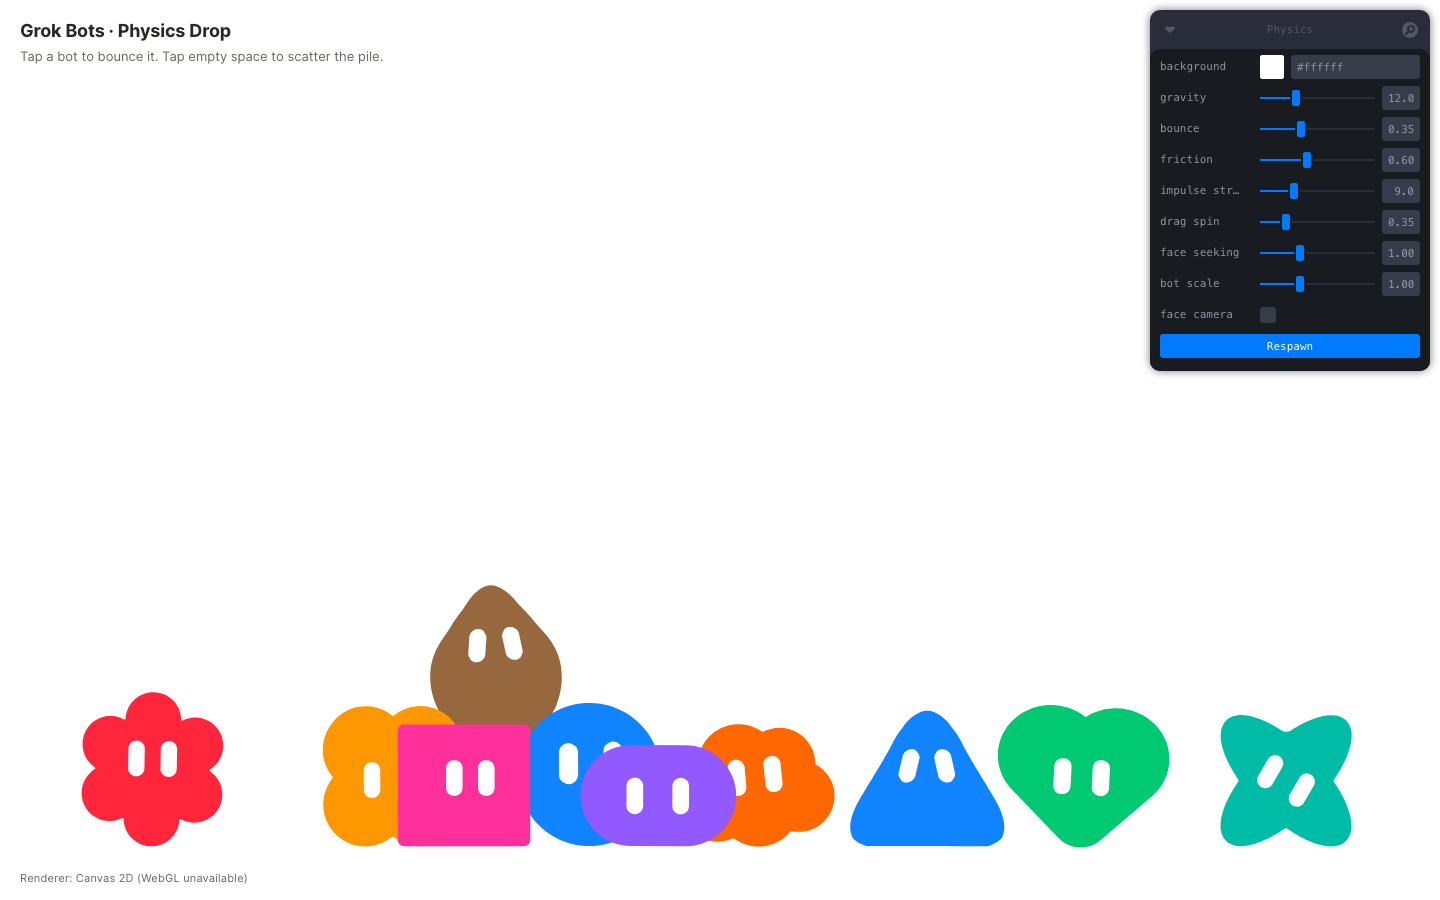
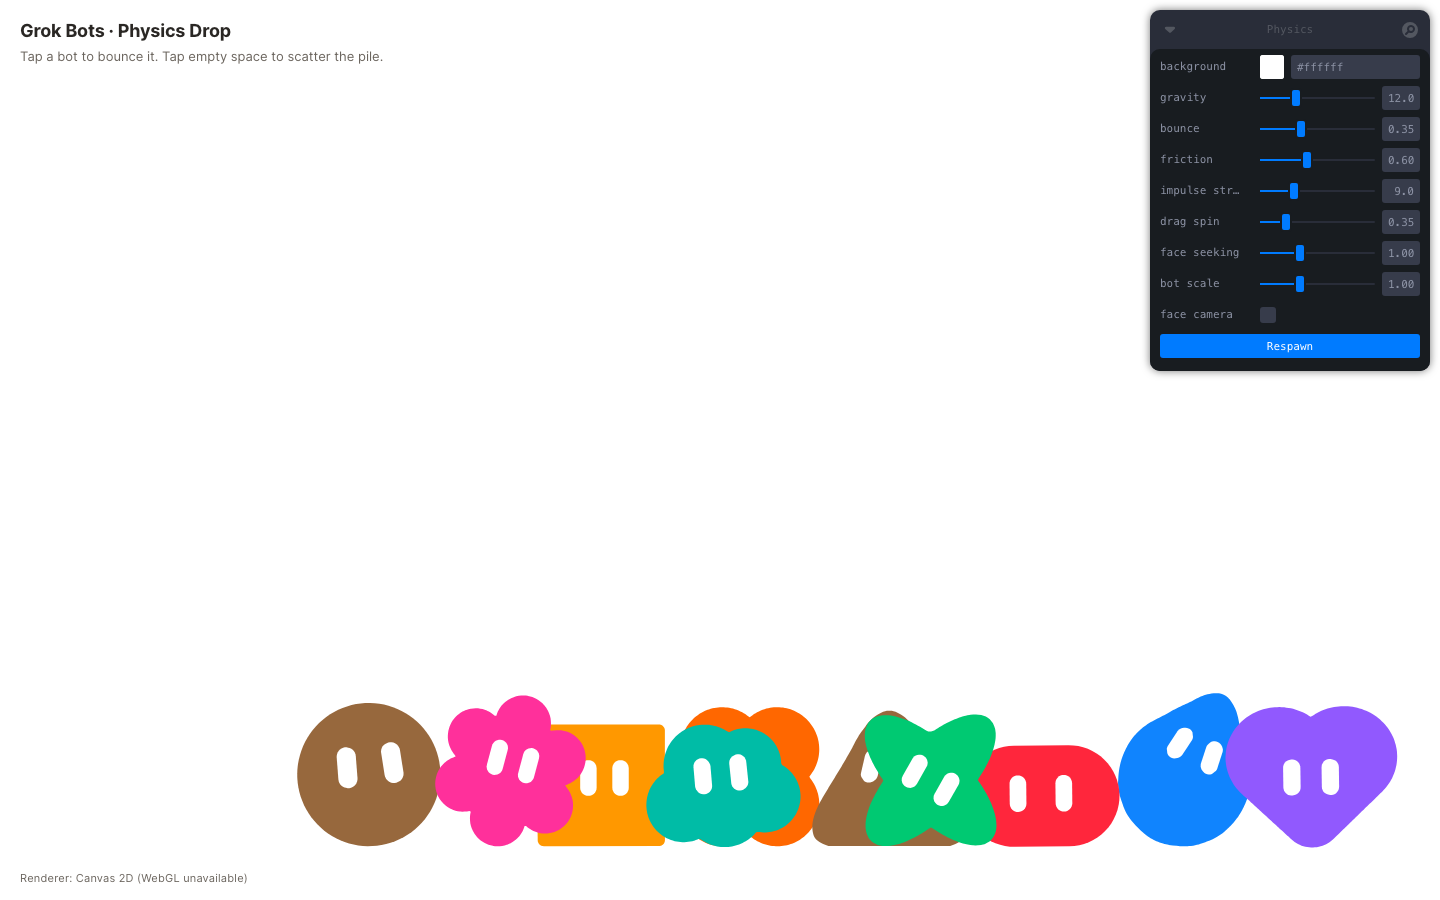
Canvas 2D: fix wedge-shaped holes — silhouette from net boundary of front triangles (balanced, always closes) instead of 2-per-edge adjacency; weld seams/poles and drop degenerate triangles; compareFrame ground-truth hook, randomize hook, triangle fallback

Changed region(s): [[0.1875, 0.6533, 0.9688, 0.9644], [0.0312, 0.7467, 0.1562, 0.9644]]

diff --git a/src/canvas2d.ts b/src/canvas2d.ts
@@ -10,9 +10,9 @@ import * as THREE from "three";
  * Drawing model, matched to what the bots need (flat unlit fills, no lights):
  * - Orthographic/perspective projection through the camera matrices.
  * - Bodies are painter-sorted by view depth, far to near. Each body is one
- *   `Path2D` made of its front-facing triangles, filled once with the nonzero
- *   rule, so the union is seamless (no hairlines between triangles) and the
- *   silhouette is exactly the mesh's.
+ *   `Path2D` of its silhouette loops — the net boundary of its front-facing
+ *   triangles — filled once with the nonzero rule, so the fill is exactly the
+ *   union of the front faces with no seams and only a few hundred segments.
  * - Eye meshes (children tagged with `userData.eyeNormal`) are drawn right
  *   after their body, only while that normal faces the camera; being flush
  *   inlays, that is when — and only when — they would be visible.
@@ -50,6 +50,14 @@ export class Canvas2DRenderer {
 
   /** Per-phase timings of the last frame (ms), for profiling. */
   phases = { project: 0, path: 0, fill: 0, triangles: 0 };
+  /**
+   * "silhouette" traces only the outline loops (fast); "triangles" emits every
+   * front-facing triangle (slow, but a straightforward ground truth used by
+   * `compareFrame`).
+   */
+  fillMode: "silhouette" | "triangles" = "silhouette";
+  private lastScene: THREE.Scene | null = null;
+  private lastCamera: THREE.Camera | null = null;
 
   setPixelRatio(dpr: number) {
     this.dpr = dpr;
@@ -85,12 +93,53 @@ export class Canvas2DRenderer {
   }
 
   render(scene: THREE.Scene, camera: THREE.Camera) {
+    this.lastScene = scene;
+    this.lastCamera = camera;
+    this.renderTo(this.ctx, this.dpr, scene, camera);
+  }
+
+  /**
+   * Test hook: draw the last frame twice into offscreen canvases — silhouette
+   * loops vs. every front-facing triangle — and count pixels that differ by
+   * more than `threshold` in any channel. Anything beyond antialiasing noise
+   * means a silhouette loop was wrong (a hole or a chord across a body).
+   */
+  compareFrame(threshold = 100): { differing: number; total: number } {
+    if (!this.lastScene || !this.lastCamera) return { differing: 0, total: 0 };
+    const w = Math.max(1, Math.floor(this.width)), h = Math.max(1, Math.floor(this.height));
+    const make = () => {
+      const c = document.createElement("canvas");
+      c.width = w;
+      c.height = h;
+      return c.getContext("2d")!;
+    };
+    const a = make(), b = make();
+    const mode = this.fillMode;
+    this.fillMode = "silhouette";
+    this.renderTo(a, 1, this.lastScene, this.lastCamera);
+    this.fillMode = "triangles";
+    this.renderTo(b, 1, this.lastScene, this.lastCamera);
+    this.fillMode = mode;
+    const pa = a.getImageData(0, 0, w, h).data, pb = b.getImageData(0, 0, w, h).data;
+    let differing = 0;
+    for (let i = 0; i < pa.length; i += 4) {
+      if (
+        Math.abs(pa[i] - pb[i]) > threshold ||
+        Math.abs(pa[i + 1] - pb[i + 1]) > threshold ||
+        Math.abs(pa[i + 2] - pb[i + 2]) > threshold
+      )
+        differing++;
+    }
+    return { differing, total: w * h };
+  }
+
+  private renderTo(ctx: CanvasRenderingContext2D, dpr: number, scene: THREE.Scene, camera: THREE.Camera) {
     const t0 = performance.now();
     this.phases.project = this.phases.path = this.phases.fill = this.phases.triangles = 0;
     if (scene.matrixWorldAutoUpdate) scene.updateMatrixWorld();
     if (camera.parent === null && camera.matrixWorldAutoUpdate) camera.updateMatrixWorld();
 
-    const { ctx, dpr, width, height } = this;
+    const { width, height } = this;
     ctx.setTransform(dpr, 0, 0, dpr, 0, 0);
     const bg = scene.background;
     if (bg instanceof THREE.Color) {
@@ -119,7 +168,7 @@ export class Canvas2DRenderer {
     this.bodies.sort((a, b) => a.depth - b.depth);
 
     for (const { mesh } of this.bodies) {
-      const bodyPath = this.fillMesh(mesh, colorOf(mesh.material));
+      const bodyPath = this.fillMesh(ctx, mesh, colorOf(mesh.material));
       if (!bodyPath) continue;
       for (const child of mesh.children) {
         const eye = child as THREE.Mesh;
@@ -136,7 +185,7 @@ export class Canvas2DRenderer {
         // silhouette stands in for the depth test at grazing angles.
         ctx.save();
         ctx.clip(bodyPath, "nonzero");
-        this.fillMesh(eye, colorOf(eye.material));
+        this.fillMesh(ctx, eye, colorOf(eye.material));
         ctx.restore();
       }
     }
@@ -149,13 +198,14 @@ export class Canvas2DRenderer {
   /**
    * Fill the projection of a mesh's front-facing triangles as one path. Rather
    * than emitting every triangle (each Path2D call costs ~1 µs, so 25k
-   * triangles took >100 ms a frame), only the silhouette is emitted: edges
-   * where a front-facing triangle meets a back-facing one, oriented by the
-   * front triangle's winding and chained into loops. With that orientation
-   * the nonzero winding number at any pixel equals the number of front-facing
-   * layers over it, so the fill is exactly the union of the front faces.
+   * triangles took >100 ms a frame), only the boundary of the front-facing set
+   * is emitted, chained into loops. An earlier version derived it from a
+   * two-triangles-per-edge adjacency; that broke on seams, poles and
+   * non-manifold marching-cubes edges, leaving open chains that `closePath`
+   * shut with a straight chord — a visible wedge cut out of a body. The net
+   * edge sum below is balanced by construction, so loops always close.
    */
-  private fillMesh(mesh: THREE.Mesh, color: string): Path2D | null {
+  private fillMesh(ctx: CanvasRenderingContext2D, mesh: THREE.Mesh, color: string): Path2D | null {
     const geometry = mesh.geometry;
     const position = geometry.attributes.position as THREE.BufferAttribute | undefined;
     if (!position) return null;
@@ -182,7 +232,7 @@ export class Canvas2DRenderer {
 
     // Front/back per triangle. Screen y points down, so a counter-clockwise
     // (front-facing) triangle in NDC has negative signed area here.
-    const { tris, triCount, edgeA, edgeB, edgeL, edgeR } = adj;
+    const { tris, triCount } = adj;
     const front = adj.front;
     for (let t = 0, i = 0; t < triCount; t++, i += 3) {
       const a = tris[i] * 2, b = tris[i + 1] * 2, c = tris[i + 2] * 2;
@@ -190,57 +240,109 @@ export class Canvas2DRenderer {
       front[t] = (out[b] - ax) * (out[c + 1] - ay) - (out[c] - ax) * (out[b + 1] - ay) < 0 ? 1 : 0;
     }
 
-    // Silhouette edges, directed so the front-facing side is consistent.
+    // Net boundary of the front-facing set: every front triangle contributes
+    // its three directed edges; an edge walked both ways (two front
+    // neighbours) cancels. Being a sum of closed triangle boundaries, the
+    // result has as many outgoing as incoming edges at every vertex whatever
+    // the mesh topology (seams, poles, non-manifold marching-cubes output), so
+    // the chains below always close, and its nonzero winding number equals
+    // the number of front layers over a pixel — exactly the union.
+    const { triEdge, triSign, edgeA, edgeB, net } = adj;
+    net.fill(0);
+    for (let t = 0, i = 0; t < triCount; t++, i += 3) {
+      if (!front[t]) continue;
+      net[triEdge[i]] += triSign[i];
+      net[triEdge[i + 1]] += triSign[i + 1];
+      net[triEdge[i + 2]] += triSign[i + 2];
+    }
     const outgoing = this.outgoing;
     outgoing.clear();
     let edges = 0;
-    for (let k = 0; k < edgeA.length; k++) {
-      const fl = front[edgeL[k]];
-      const fr = edgeR[k] >= 0 ? front[edgeR[k]] : 0;
-      if (fl === fr) continue;
-      const from = fl ? edgeA[k] : edgeB[k];
-      const to = fl ? edgeB[k] : edgeA[k];
+    for (let k = 0; k < net.length; k++) {
+      const n = net[k];
+      if (n === 0) continue;
+      const from = n > 0 ? edgeA[k] : edgeB[k];
+      const to = n > 0 ? edgeB[k] : edgeA[k];
       const list = outgoing.get(from);
-      if (list) list.push(to);
-      else outgoing.set(from, [to]);
-      edges++;
+      const copies = Math.abs(n);
+      if (list) for (let c = 0; c < copies; c++) list.push(to);
+      else outgoing.set(from, Array(copies).fill(to));
+      edges += copies;
     }
     const tq = performance.now();
     this.phases.project += tq - tp;
     this.phases.triangles += edges;
     if (!edges) return null;
 
+    if (this.fillMode === "triangles") return this.fillTriangles(ctx, adj, out, color);
+
     // Chain directed edges into closed loops. Every vertex has as many
     // outgoing as incoming silhouette edges, so any unused outgoing edge
-    // continues the walk; a loop closes when it returns to its start.
+    // continues the walk and a walk can only get stuck back at its start.
     const path = new Path2D();
+    let open = false;
     for (const [start, firstList] of outgoing) {
       while (firstList.length) {
         let v = start;
         path.moveTo(out[v * 2], out[v * 2 + 1]);
+        let closed = false;
         for (let guard = 0; guard <= edges; guard++) {
           const list = outgoing.get(v);
           if (!list || !list.length) break;
           v = list.pop()!;
-          if (v === start) break;
+          if (v === start) {
+            closed = true;
+            break;
+          }
           path.lineTo(out[v * 2], out[v * 2 + 1]);
         }
         path.closePath();
+        if (!closed) open = true;
       }
+    }
+    if (open) {
+      // Cannot happen with balanced edges; if it ever does, correctness over
+      // speed: fill every front triangle for this mesh instead.
+      this.unclosedLoops++;
+      return this.fillTriangles(ctx, adj, out, color);
     }
     const tr = performance.now();
     this.phases.path += tr - tq;
-    const ctx = this.ctx;
     ctx.fillStyle = color;
     ctx.fill(path, "nonzero");
     this.phases.fill += performance.now() - tr;
     return path;
   }
 
+  /** Count of silhouette chains that failed to close (expected to stay 0). */
+  unclosedLoops = 0;
+
+  /** Ground truth / fallback: every front-facing triangle, one nonzero fill. */
+  private fillTriangles(ctx: CanvasRenderingContext2D, adj: Adjacency, out: Float32Array, color: string): Path2D {
+    const { tris, triCount, front } = adj;
+    const path = new Path2D();
+    for (let t = 0, i = 0; t < triCount; t++, i += 3) {
+      if (!front[t]) continue;
+      const a = tris[i] * 2, b = tris[i + 1] * 2, c = tris[i + 2] * 2;
+      path.moveTo(out[a], out[a + 1]);
+      path.lineTo(out[b], out[b + 1]);
+      path.lineTo(out[c], out[c + 1]);
+      path.closePath();
+    }
+    ctx.fillStyle = color;
+    ctx.fill(path, "nonzero");
+    return path;
+  }
+
   private adjacencyCache = new Map<THREE.BufferGeometry, Adjacency>();
   private outgoing = new Map<number, number[]>();
 
-  /** Triangle list plus, for every undirected edge, the triangles on each side. Built once per geometry. */
+  /**
+   * Triangle list plus the undirected edge table: for each triangle side, the
+   * edge it lies on and whether it runs along (+1) or against (-1) the edge's
+   * stored direction. Built once per geometry; welded vertex indices are the
+   * keys, never float positions.
+   */
   private adjacency(geometry: THREE.BufferGeometry): Adjacency {
     let adj = this.adjacencyCache.get(geometry);
     if (adj) return adj;
@@ -250,22 +352,23 @@ export class Canvas2DRenderer {
     const tris = new Uint32Array(triCount * 3);
     for (let i = 0; i < triCount * 3; i++) tris[i] = index ? index.getX(i) : i;
     const edgeOf = new Map<number, number>();
-    const edgeA: number[] = [], edgeB: number[] = [], edgeL: number[] = [], edgeR: number[] = [];
+    const edgeA: number[] = [], edgeB: number[] = [];
+    const triEdge = new Uint32Array(triCount * 3);
+    const triSign = new Int8Array(triCount * 3);
     for (let t = 0; t < triCount; t++) {
       for (let s = 0; s < 3; s++) {
         const a = tris[t * 3 + s], b = tris[t * 3 + ((s + 1) % 3)];
-        const key = a < b ? a * vertexCount + b : b * vertexCount + a;
-        const k = edgeOf.get(key);
+        const lo = Math.min(a, b), hi = Math.max(a, b);
+        const key = lo * vertexCount + hi;
+        let k = edgeOf.get(key);
         if (k === undefined) {
-          edgeOf.set(key, edgeA.length);
-          // Stored as the direction it runs in triangle t, with t on the left.
-          edgeA.push(a);
-          edgeB.push(b);
-          edgeL.push(t);
-          edgeR.push(-1);
-        } else if (edgeR[k] < 0) {
-          edgeR[k] = t;
+          k = edgeA.length;
+          edgeOf.set(key, k);
+          edgeA.push(lo);
+          edgeB.push(hi);
         }
+        triEdge[t * 3 + s] = k;
+        triSign[t * 3 + s] = a === lo ? 1 : -1;
       }
     }
     adj = {
@@ -274,8 +377,9 @@ export class Canvas2DRenderer {
       front: new Uint8Array(triCount),
       edgeA: Uint32Array.from(edgeA),
       edgeB: Uint32Array.from(edgeB),
-      edgeL: Uint32Array.from(edgeL),
-      edgeR: Int32Array.from(edgeR),
+      triEdge,
+      triSign,
+      net: new Int16Array(edgeA.length),
     };
     this.adjacencyCache.set(geometry, adj);
     return adj;
@@ -288,8 +392,9 @@ type Adjacency = {
   front: Uint8Array;
   edgeA: Uint32Array;
   edgeB: Uint32Array;
-  edgeL: Uint32Array;
-  edgeR: Int32Array;
+  triEdge: Uint32Array;
+  triSign: Int8Array;
+  net: Int16Array;
 };
 
 function isDrawable(material: THREE.Material | THREE.Material[]): boolean {

diff --git a/src/geometry.ts b/src/geometry.ts
@@ -251,6 +251,21 @@ function smoothProfile(profile: readonly Pt2[]): Pt2[] {
   return [...bottom.reverse(), ...body, ...top];
 }
 
+/**
+ * Share vertices across seams and poles (three's sphere/capsule/box builders
+ * duplicate them for UVs, which we don't use) and drop zero-area triangles.
+ * The Canvas 2D renderer traces silhouettes by vertex index, so a clean,
+ * welded index is what keeps its edge bookkeeping exact.
+ */
+function weld(g: THREE.BufferGeometry): THREE.BufferGeometry {
+  g.deleteAttribute("uv");
+  g.deleteAttribute("normal");
+  const merged = mergeVertices(g, 1e-5);
+  if (merged !== g) g.dispose();
+  dropDegenerateTriangles(merged);
+  return merged;
+}
+
 /** Drop triangles that reference the same vertex twice (lathe apex slivers). */
 function dropDegenerateTriangles(g: THREE.BufferGeometry) {
   const idx = g.getIndex();
@@ -549,7 +564,7 @@ export function buildBotGeometry(shape: BotShape, quality: Quality = "high"): Bo
   const sdf = bodySdf(body);
   const scale = WORLD_PER_BODY * eyes.size;
 
-  const geometry = bodyGeometry(body, sdf, q);
+  const geometry = weld(bodyGeometry(body, sdf, q));
   // Raycasting (taps, drags) culls back faces, so every body must wind outward.
   ensureOutwardWinding(geometry);
   geometry.computeVertexNormals();

diff --git a/src/Scene.tsx b/src/Scene.tsx
@@ -168,6 +168,17 @@ function World({ settings, generation, quality }: { settings: Settings; generati
       __grokBotPositions?: () => { id: string; x: number; y: number; z: number }[];
     };
     w.__grokBotsReady = true;
+    // Test hook: throw every bot into a random orientation (renderer stress tests).
+    (w as { __grokBotRandomize?: () => void }).__grokBotRandomize = () => {
+      for (const b of bodies.current) {
+        if (!b) continue;
+        const q = new THREE.Quaternion().setFromEuler(
+          new THREE.Euler(Math.random() * Math.PI * 2, Math.random() * Math.PI * 2, Math.random() * Math.PI * 2),
+        );
+        b.setRotation({ x: q.x, y: q.y, z: q.z, w: q.w }, true);
+        b.setAngvel({ x: (Math.random() - 0.5) * 6, y: (Math.random() - 0.5) * 6, z: (Math.random() - 0.5) * 6 }, true);
+      }
+    };
     w.__grokBotPositions = () =>
       bodies.current.flatMap((b, i) => {
         if (!b) return [];
